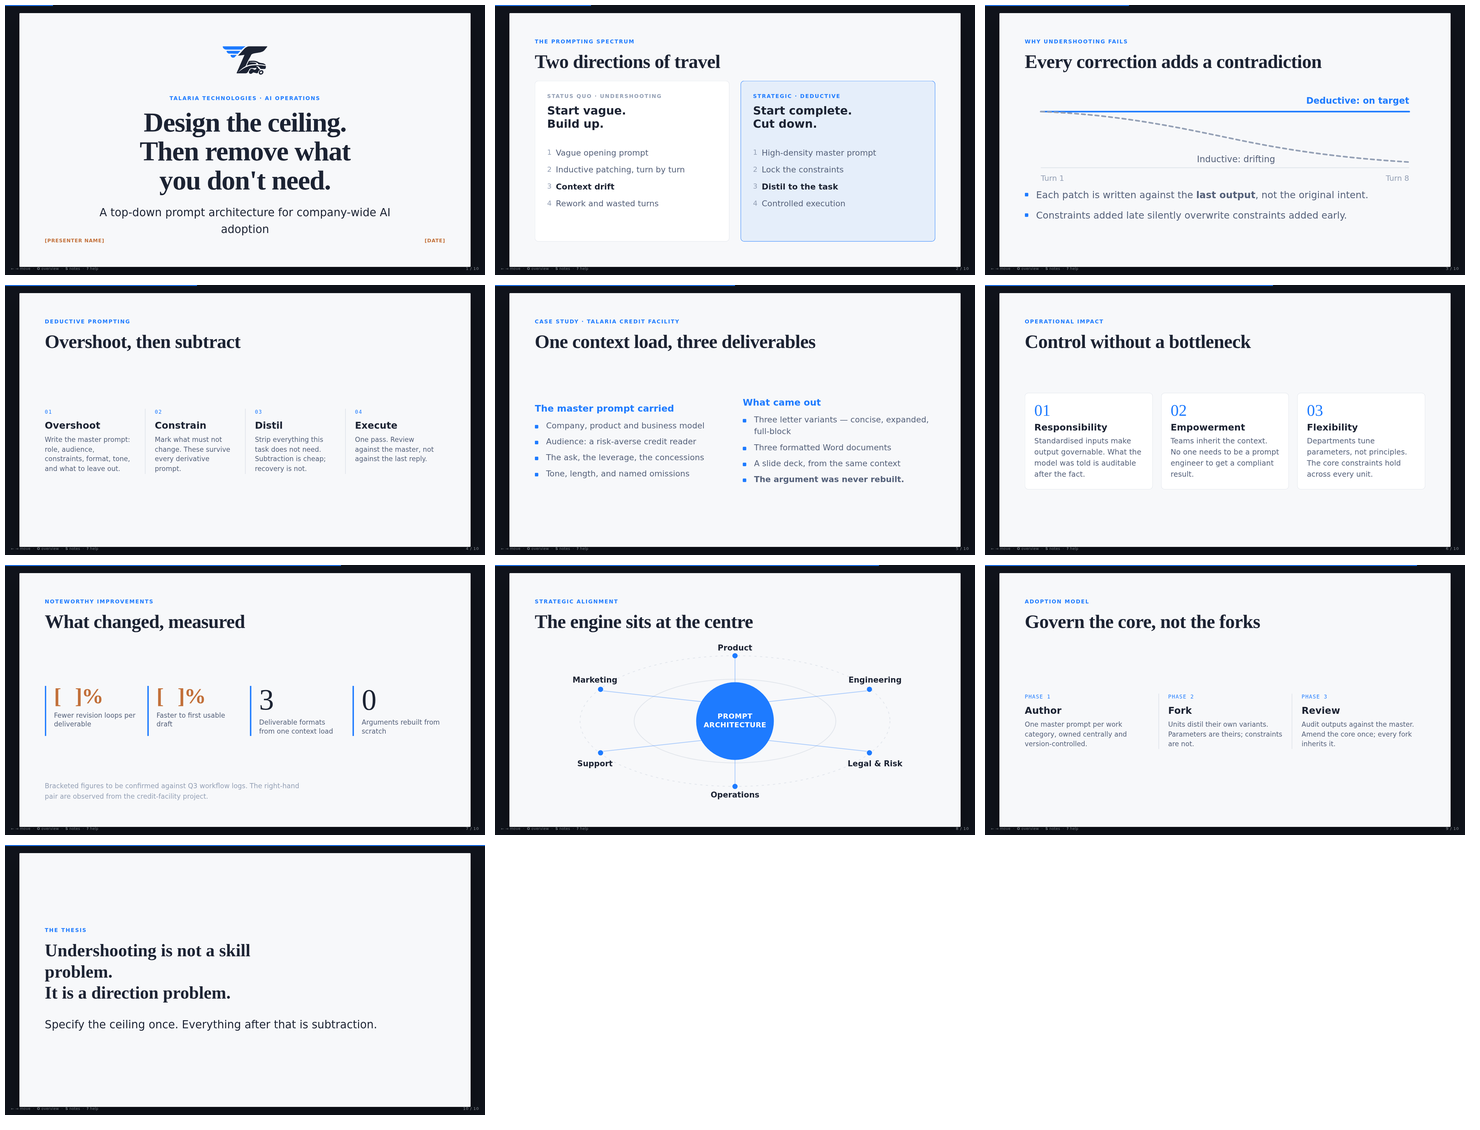
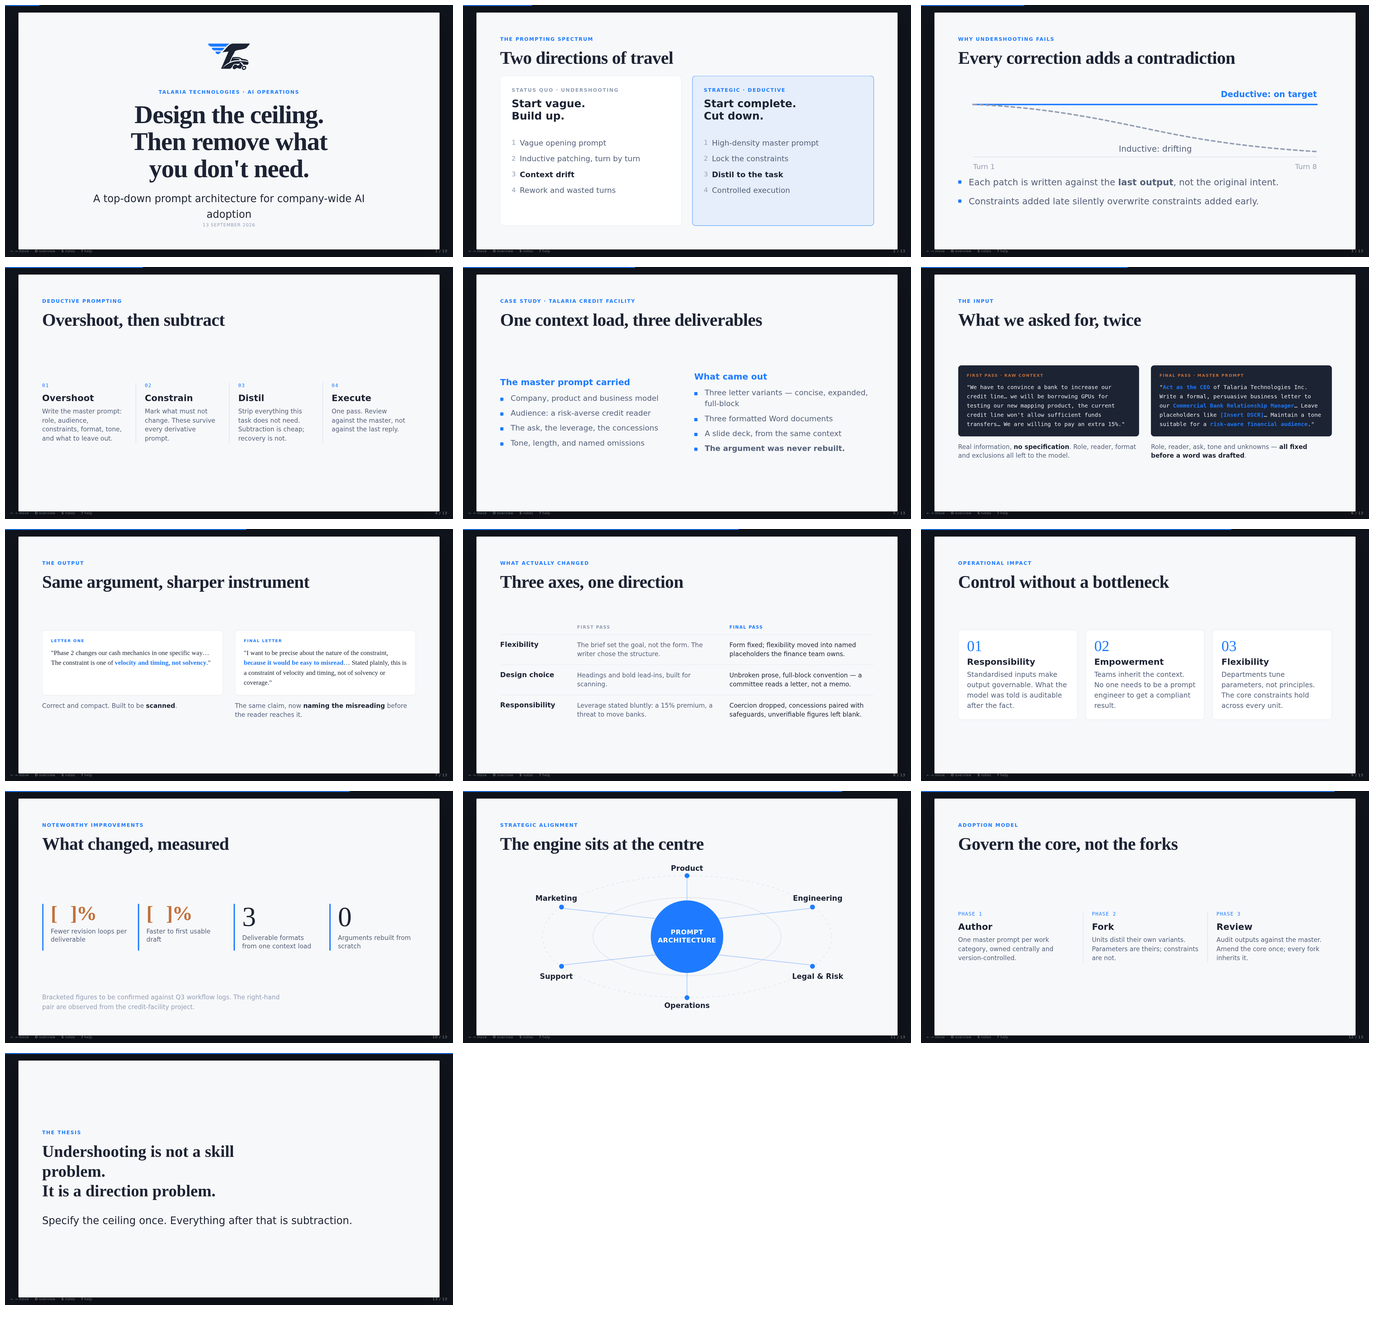
Version 0.1.2

diff --git a/deck/index.html b/deck/index.html
@@ -217,7 +217,69 @@
         reasoning was authored once, because it was specified before the first draft existed.</aside>
     </section>
 
-    <!-- ══ 6 ══ OPERATIONAL IMPACT — 3-column cards ══ -->
+    <!-- ══ 6 ══ PROMPT COMPARISON — verbatim, side by side ══ -->
+  <section class="slide" data-title="The prompt evolved">
+    <div class="eyebrow">The input</div>
+    <h2>What we asked for, twice</h2>
+    <div class="pairgrid fill">
+      <div class="snip snip--prompt">
+        <div class="chip">First pass · raw context</div>
+        <div class="txt">"We have to convince a bank to increase our credit line… we will be borrowing GPUs for testing our new mapping product, the current credit line won't allow sufficient funds transfers… We are willing to pay an extra 15%."</div>
+      </div>
+      <div class="snip snip--prompt frag">
+        <div class="chip">Final pass · master prompt</div>
+        <div class="txt">"<b>Act as the CEO</b> of Talaria Technologies Inc. Write a formal, persuasive business letter to our <b>Commercial Bank Relationship Manager</b>… Leave placeholders like <b>[Insert DSCR]</b>… Maintain a tone suitable for a <b>risk-aware financial audience</b>."</div>
+      </div>
+      <p class="takeaway">Real information, <b>no specification</b>. Role, reader, format and exclusions all left to the model.</p>
+      <p class="takeaway frag">Role, reader, ask, tone and unknowns — <b>all fixed before a word was drafted</b>.</p>
+    </div>
+    <aside class="notes">Read both aloud. The first is not a bad prompt — it carries genuine context. It simply decides nothing, and every decision it skips the model makes on your behalf.</aside>
+  </section>
+
+  <!-- ══ 7 ══ LETTER COMPARISON — same claim, two instruments ══ -->
+  <section class="slide" data-title="The letter evolved">
+    <div class="eyebrow">The output</div>
+    <h2>Same argument, sharper instrument</h2>
+    <div class="pairgrid fill">
+      <div class="snip snip--letter">
+        <div class="chip">Letter one</div>
+        <div class="txt">"Phase 2 changes our cash mechanics in one specific way… The constraint is one of <b>velocity and timing, not solvency</b>."</div>
+      </div>
+      <div class="snip snip--letter frag">
+        <div class="chip">Final letter</div>
+        <div class="txt">"I want to be precise about the nature of the constraint, <b>because it would be easy to misread</b>… Stated plainly, this is a constraint of velocity and timing, not of solvency or coverage."</div>
+      </div>
+      <p class="takeaway">Correct and compact. Built to be <b>scanned</b>.</p>
+      <p class="takeaway frag">The same claim, now <b>naming the misreading</b> before the reader reaches it.</p>
+    </div>
+    <aside class="notes">The argument did not change between these two. Only its handling of the reader did — and that came from the brief, not from a rewrite.</aside>
+  </section>
+
+  <!-- ══ 8 ══ THREE AXES — the comparison that matters ══ -->
+  <section class="slide" data-title="Three axes">
+    <div class="eyebrow">What actually changed</div>
+    <h2>Three axes, one direction</h2>
+    <div class="cmp">
+      <div class="head"></div>
+      <div class="head">First pass</div>
+      <div class="head head--now">Final pass</div>
+
+      <div class="axis">Flexibility</div>
+      <div class="cell">The brief set the goal, not the form. The writer chose the structure.</div>
+      <div class="cell cell--now">Form fixed; flexibility moved into named placeholders the finance team owns.</div>
+
+      <div class="axis">Design choice</div>
+      <div class="cell">Headings and bold lead-ins, built for scanning.</div>
+      <div class="cell cell--now">Unbroken prose, full-block convention — a committee reads a letter, not a memo.</div>
+
+      <div class="axis">Responsibility</div>
+      <div class="cell">Leverage stated bluntly: a 15% premium, a threat to move banks.</div>
+      <div class="cell cell--now">Coercion dropped, concessions paired with safeguards, unverifiable figures left blank.</div>
+    </div>
+    <aside class="notes">Responsibility is the row to dwell on. Specifying the prompt did not only improve the prose — it decided what we were willing to say, and what we refused to claim without evidence.</aside>
+  </section>
+
+  <!-- ══ 9 ══ OPERATIONAL IMPACT — 3-column cards ══ -->
     <section class="slide" data-title="Operational impact">
       <div class="eyebrow">Operational impact</div>
       <h2>Control without a bottleneck</h2>
@@ -242,7 +304,7 @@
         the artefact, so the team does not have to carry it.</aside>
     </section>
 
-    <!-- ══ 7 ══ METRICS — large callouts ══ -->
+    <!-- ══ 10 ══ METRICS — large callouts ══ -->
     <section class="slide" data-title="Improvements">
       <div class="eyebrow">Noteworthy improvements</div>
       <h2>What changed, measured</h2>
@@ -270,7 +332,7 @@
         source is worse than no metric with this audience.</aside>
     </section>
 
-    <!-- ══ 8 ══ CENTRE ALIGNMENT — concentric radial ══ -->
+    <!-- ══ 11 ══ CENTRE ALIGNMENT — concentric radial ══ -->
     <section class="slide" data-title="Centre alignment">
       <div class="eyebrow">Strategic alignment</div>
       <h2>The engine sits at the centre</h2>
@@ -305,7 +367,7 @@
         core, so no team inherits a degraded copy of the standard.</aside>
     </section>
 
-    <!-- ══ 9 ══ ADOPTION — three phases ══ -->
+    <!-- ══ 12 ══ ADOPTION — three phases ══ -->
     <section class="slide" data-title="Adoption">
       <div class="eyebrow">Adoption model</div>
       <h2>Govern the core, not the forks</h2>
@@ -330,7 +392,7 @@
         from does.</aside>
     </section>
 
-    <!-- ══ 10 ══ CLOSE — statement ══ -->
+    <!-- ══ 13 ══ CLOSE — statement ══ -->
     <section class="slide slide--statement" data-title="Close">
       <div class="eyebrow">The thesis</div>
       <div class="quote" style="margin-bottom:36px">Undershooting is not a skill problem.<br>It is a direction problem.

diff --git a/deck/css/components.css b/deck/css/components.css
@@ -102,3 +102,58 @@ ul.points li::before{
 /* SVG diagram labels: a presentation attribute loses to any CSS rule,
    so set the family here rather than on each <text>. */
 .slide svg text{font-family:var(--font-body)}
+
+/* ============================================================
+   EXCERPT CARDS — verbatim prompt / letter snippets
+   ============================================================ */
+.snip{
+  border-radius:var(--radius);padding:24px 26px;
+  display:flex;flex-direction:column;
+}
+.snip .chip{
+  font-size:12px;font-weight:700;letter-spacing:.16em;
+  text-transform:uppercase;margin-bottom:14px;
+}
+.snip .txt{color:inherit}
+
+/* the input: reads as a terminal / instruction block */
+.snip--prompt{background:var(--ink);color:var(--ink-invert)}
+.snip--prompt .chip{color:var(--accent-2)}
+.snip--prompt .txt{font-family:var(--font-mono);font-size:17px;line-height:1.65;opacity:.93}
+
+/* the output: reads as a document */
+.snip--letter{background:var(--paper-2);border:1px solid var(--line);color:var(--ink)}
+.snip--letter .chip{color:var(--accent)}
+.snip--letter .txt{font-family:var(--font-display);font-size:20px;line-height:1.5}
+
+.snip .txt b{color:var(--accent);font-weight:600}
+.snip--letter .txt b{color:var(--accent)}
+
+.takeaway{font-size:19px;line-height:1.45;color:var(--ink-soft);margin-top:16px}
+.takeaway b{color:var(--ink);font-weight:600}
+
+/* ============================================================
+   COMPARISON GRID — one axis per row, two positions per column
+   ============================================================ */
+.cmp{display:grid;grid-template-columns:210px 1fr 1fr;align-content:center;flex:1}
+.cmp > div{padding:18px 24px;border-top:1px solid var(--line)}
+.cmp .head{
+  border-top:0;padding:0 24px 14px;
+  font-size:13px;font-weight:700;letter-spacing:.14em;
+  text-transform:uppercase;color:var(--ink-faint);
+}
+.cmp .head--now{color:var(--accent)}
+.cmp .axis{font-size:21px;font-weight:600;color:var(--ink);padding-left:0}
+.cmp .cell{font-size:19px;line-height:1.45;color:var(--ink-soft)}
+.cmp .cell--now{color:var(--ink)}
+
+/* Two excerpts compared: row 1 holds the cards (equal height, tops aligned),
+   row 2 holds their takeaways on a shared baseline. */
+.pairgrid{
+  display:grid;
+  grid-template-columns:1fr 1fr;
+  grid-template-rows:auto auto;
+  gap:18px 36px;
+  align-content:center;
+}
+.pairgrid .takeaway{margin-top:0}

diff --git a/deck/DECK-SCRIPT.md b/deck/DECK-SCRIPT.md
@@ -1,6 +1,6 @@
 # Deductive Prompt Architecture — Deck Script & Layout Plan
 
-**Deck:** `deck/index.html` (10 slides) · **Company:** Talaria Technologies Inc.
+**Deck:** `deck/index.html` (13 slides) · **Company:** Talaria Technologies Inc.
 **Palette:** sampled from `assets/logo.svg` — Talaria blue `#1E7BFF`, navy `#1C2333`, paper `#F7F8FA`
 **Type:** Fraunces (display) / Inter (body) · minimum on-slide size 21px at 1280×720 — legible from the back of a room
 
@@ -80,7 +80,57 @@
 
 ---
 
-## Slide 6 — Control without a bottleneck
+## Slide 6 — What we asked for, twice
+
+**Layout** Two-row comparison grid. Row one holds the two prompt excerpts at equal height with their tops aligned; row two holds a one-line takeaway under each.
+
+**Visual direction** Both excerpts sit in dark, monospaced cards so they read unmistakably as *input* rather than prose. Rust label chips; the specified elements of the final prompt picked out in Talaria blue. The right-hand card and its takeaway reveal on separate keypresses.
+
+**Body**
+- **First pass · raw context** — "We have to convince a bank to increase our credit line… we will be borrowing GPUs for testing our new mapping product, the current credit line won't allow sufficient funds transfers… We are willing to pay an extra 15%."
+  → *Real information, no specification. Role, reader, format and exclusions all left to the model.*
+- **Final pass · master prompt** — "Act as the CEO of Talaria Technologies Inc. Write a formal, persuasive business letter to our Commercial Bank Relationship Manager… Leave placeholders like [Insert DSCR]… Maintain a tone suitable for a risk-aware financial audience."
+  → *Role, reader, ask, tone and unknowns — all fixed before a word was drafted.*
+
+**Presenter notes** Read both aloud. The first is not a bad prompt — it carries genuine context. It simply decides nothing, and every decision it skips the model makes on your behalf.
+
+---
+
+## Slide 7 — Same argument, sharper instrument
+
+**Layout** Identical two-row grid to slide 6, so the eye maps input directly onto output.
+
+**Visual direction** Light cards with a serif face this time — these are *documents*, not instructions. The rhyme with the previous slide is deliberate: same geometry, inverted treatment.
+
+**Body**
+- **Letter one** — "Phase 2 changes our cash mechanics in one specific way… The constraint is one of velocity and timing, not solvency."
+  → *Correct and compact. Built to be scanned.*
+- **Final letter** — "I want to be precise about the nature of the constraint, because it would be easy to misread… Stated plainly, this is a constraint of velocity and timing, not of solvency or coverage."
+  → *The same claim, now naming the misreading before the reader reaches it.*
+
+**Presenter notes** The argument did not change between these two. Only its handling of the reader did — and that came from the brief, not from a rewrite.
+
+---
+
+## Slide 8 — Three axes, one direction
+
+**Layout** Comparison table. A narrow axis column on the left, then First pass and Final pass columns, three rows divided by hairlines.
+
+**Visual direction** No cards, no fills — hairline rules only, so the content carries itself. The Final pass column header is blue and its cells sit at full ink weight; the First pass column is one step lighter. The contrast is stated by typographic weight rather than by colour blocks.
+
+**Body**
+
+| | First pass | Final pass |
+|---|---|---|
+| **Flexibility** | The brief set the goal, not the form. The writer chose the structure. | Form fixed; flexibility moved into named placeholders the finance team owns. |
+| **Design choice** | Headings and bold lead-ins, built for scanning. | Unbroken prose, full-block convention — a committee reads a letter, not a memo. |
+| **Responsibility** | Leverage stated bluntly: a 15% premium, a threat to move banks. | Coercion dropped, concessions paired with safeguards, unverifiable figures left blank. |
+
+**Presenter notes** Responsibility is the row to dwell on. Specifying the prompt did not only improve the prose — it decided what we were willing to say, and what we refused to claim without evidence.
+
+---
+
+## Slide 9 — Control without a bottleneck
 
 **Layout** 3-column card layout, vertically centred.
 
@@ -95,7 +145,7 @@
 
 ---
 
-## Slide 7 — What changed, measured
+## Slide 10 — What changed, measured
 
 **Layout** Four large metric callouts in a row, each on a blue left rule. Sourcing footnote at the base.
 
@@ -112,7 +162,7 @@
 
 ---
 
-## Slide 8 — The engine sits at the centre
+## Slide 11 — The engine sits at the centre
 
 **Layout** Concentric radial diagram, full bleed within the content area.
 
@@ -124,7 +174,7 @@
 
 ---
 
-## Slide 9 — Govern the core, not the forks
+## Slide 12 — Govern the core, not the forks
 
 **Layout** Three-phase step ribbon, hairline rules between phases.
 
@@ -139,7 +189,7 @@
 
 ---
 
-## Slide 10 — The thesis
+## Slide 13 — The thesis
 
 **Layout** Statement slide. Left-aligned, vertically centred, nothing else on the surface.
 
